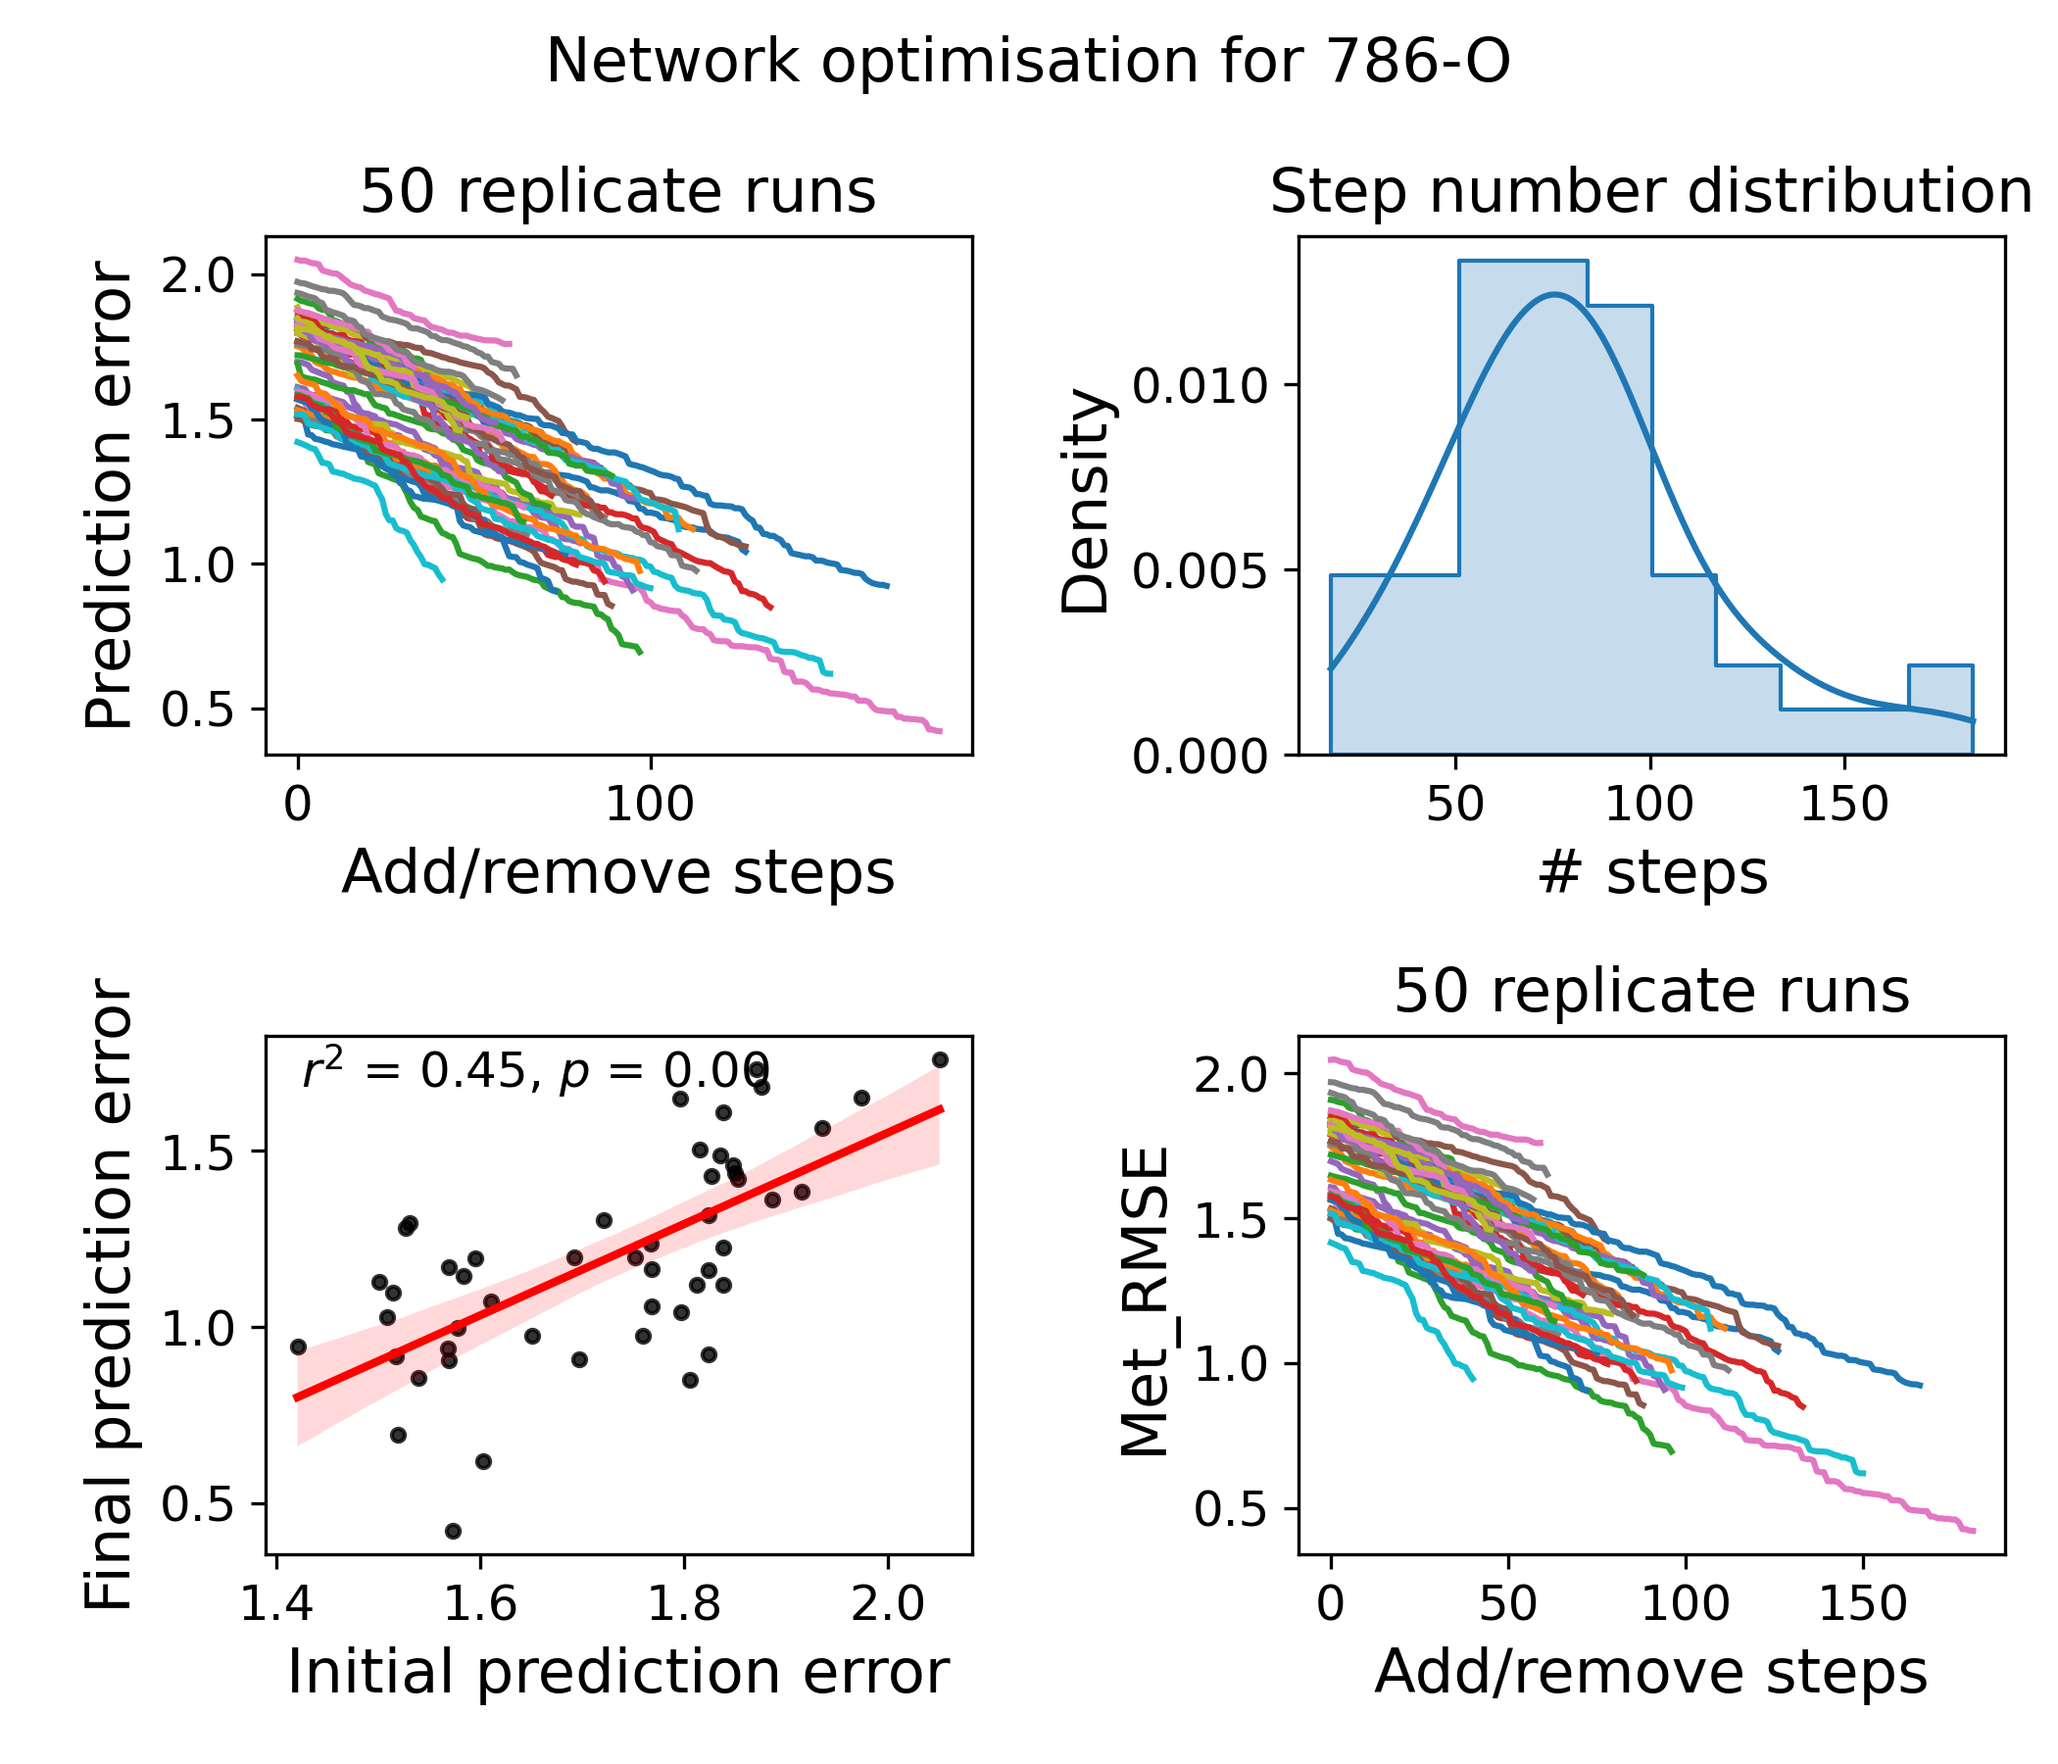
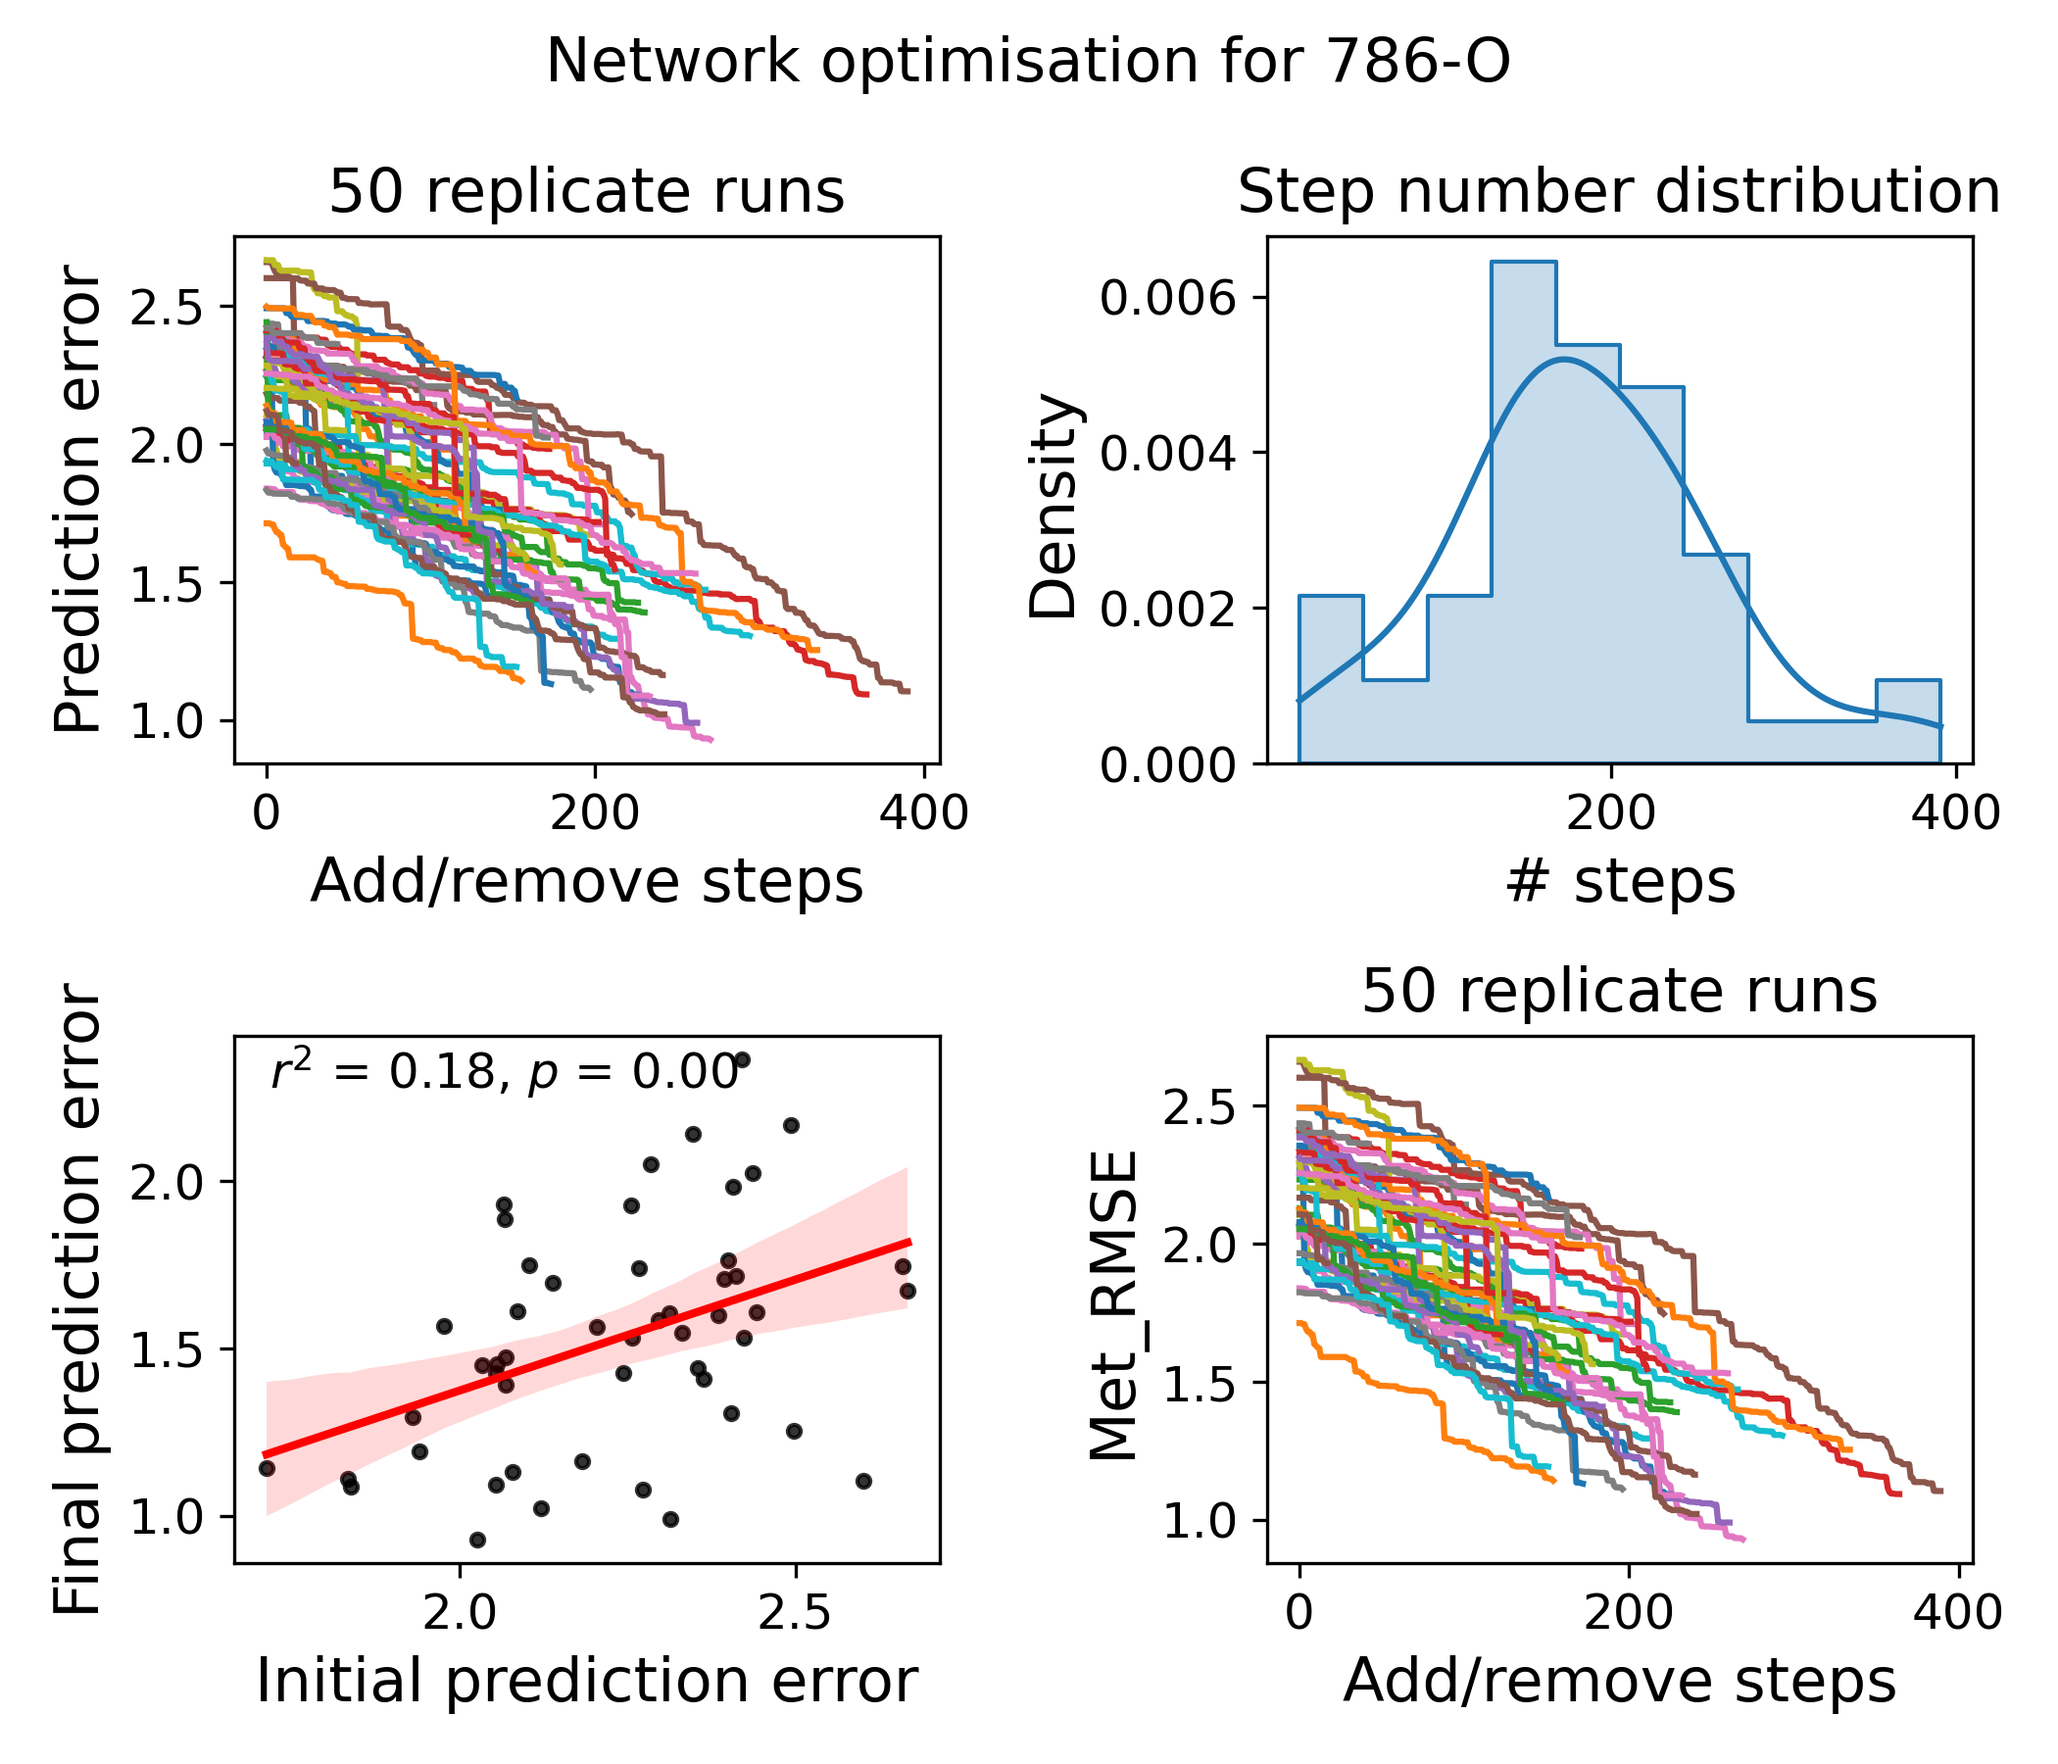
Sims for network features

diff --git a/codes/cancer-all-network-models.py b/codes/cancer-all-network-models.py
@@ -12,15 +12,12 @@ import pandas as pd
 import numpy as np
 import matplotlib.pyplot as plt
 import seaborn as sns
-# from scipy.stats import sem
-# from sklearn.linear_model import LinearRegression
 from scipy.sparse import csr_matrix
-import numpy.matlib
 from scipy.optimize import minimize
 from scipy.stats import pearsonr
 import networkx as nx
-
 import os
+import numpy.matlib
 
 # %%
 ############ Figure size settings
@@ -166,23 +163,6 @@ def calculate_metabolome_from_net(f, ct_hyp, diet, net, in_degree_flag, MAX_ID_m
 
     return [m2b, b2m, metabolome_pred]
 
-def calc_metabolome(diet, m2b, m2m_total, numLevels_max, MAX_ID_metabolites):
-    '''
-    calc_metabolome is a function used to calculate the metabolome from the fitted nutrient intake from the
-    model. It relies on (1) x: the nutrient intake, (2) i_intake: IDs of the nutrient intake, (3) m2m_layer: 
-    a conversion matrix from the nutrient intake to the metabolite byproducts at a trophic level or layer, 
-    and (4) numLevels_max: the number of trophic levels/layers in the model. The metabolome in the model is 
-    assumed to be composed of two parts: (1) met_levels: all metabolites in the final trophic level/layer 
-    (which is considered to be reaching the end of the gut because of the finite gut length and gut motility.),
-    and (2) met_leftover_levels: all unusable metabolites from all previous trophic levels/layers. 
-    '''
-    met_levels = m2m_total.copy()
-    met_leftover_levels = np.where(m2b.sum(1)==0, diet.to_numpy(), 0)
-
-    metabolome_predicted = met_levels + met_leftover_levels
-            
-    return metabolome_predicted
-
 def calc_pred_error(ct_hyp, net, numLevels_max, f, diet, ec_real, in_degree_flag, MAX_ID_metabolites, MAX_ID_celltypes):
     '''
     pred_error is a function used to compute the logarithmic error between experimentally measured
@@ -193,9 +173,9 @@ def calc_pred_error(ct_hyp, net, numLevels_max, f, diet, ec_real, in_degree_flag
     experimentally measured net gain in intracellular metabolome "ic_real".
     '''
 
-    m2b, b2m, m2m_total = Ain_out(f, ct_hyp, diet, net, in_degree_flag, MAX_ID_metabolites, MAX_ID_celltypes)
+    m2b, b2m, ec_pred = calculate_metabolome_from_net(f, ct_hyp, diet, net, in_degree_flag, MAX_ID_metabolites, MAX_ID_celltypes)
     
-    ec_pred = calc_metabolome(diet, m2b, m2m_total, numLevels_max, MAX_ID_metabolites) # Row sum of all secreted metabolites plus unused metabolites
+
     i_nonzero = np.where((ec_pred * ec_real) > 0)[0]
     
     # diff = np.log10(ec_pred[i_nonzero]) - np.log10(ec_real[i_nonzero])
@@ -205,17 +185,17 @@ def calc_pred_error(ct_hyp, net, numLevels_max, f, diet, ec_real, in_degree_flag
     return pred_error
 
 def run_network_model(f, diet, col_name, k, cellnum_init, cellnum_max, net, in_degree_flag, MAX_ID_metabolites, MAX_ID_celltypes):
-    f = f * np.ones((1, MAX_ID_celltypes))
+    # f = f * np.ones((1, MAX_ID_celltypes))
     numLevels_max = 1
 
     ######## Initial cell type frequencies and empirically measured extracellular metabolome for cell line given by col_name
-    ct0 = cellnum_init*celltypefreq.to_numpy()
+    ct0 = cellnum_init*celltypefreq.values
     ec_real = ec_metabolome[col_name].values
  
-    ct_full = np.zeros((MAX_ID_celltypes,)) # Final cell number, either fitted or taken depending on number of cell types
+    ct_full = np.zeros_like(ct0) # np.zeros((MAX_ID_celltypes,)) # Final cell number, either fitted or taken depending on number of cell types
 
     ######## Compute matrices involving the metabolite consumption and generation:
-    m2b, b2m, m2m_total = Ain_out(f, ct0, diet, net, in_degree_flag, MAX_ID_metabolites, MAX_ID_celltypes)
+    m2b, b2m, metabolome_pred_unfilt = calculate_metabolome_from_net(f, ct0, diet, net, in_degree_flag, MAX_ID_metabolites, MAX_ID_celltypes)
     # m2m_total = m2b_multiple_levels(f, m2b, b2m, numLevels_max, MAX_ID_metabolites, MAX_ID_celltypes)
 
     ##### For k > 1, the model is converted into an optimization problem where the celltype frequencies are constantly changed to minimize the logarithmic error between experimentally measured metabolome and predicted metabolome computed from the model for a certain up-sec network and initial cell type distribution.
@@ -231,7 +211,7 @@ def run_network_model(f, diet, col_name, k, cellnum_init, cellnum_max, net, in_d
     else:
         ct_full = cellnum_max
 
-    metabolome_pred_unfilt = calc_metabolome(diet, m2b, m2m_total, numLevels_max, MAX_ID_metabolites)
+    # metabolome_pred_unfilt = calc_metabolome(diet, m2b, m2m_total, numLevels_max, MAX_ID_metabolites)
     metabolome_measured_unfilt = ec_real.copy()
 
     ### Taking out unused metabolites from the analysis
@@ -458,29 +438,6 @@ def pred_error_addingLinks(x, m2b_ori, b2m_ori, net_ori, f, col_name, diet, in_d
     net_added_production = pd.DataFrame({net_ori.columns[0]: a,
                                           net_ori.columns[1]: b,
                                           net_ori.columns[2]: c})
-    # m2b_added = x[:max_links].reshape((m2b_ori.shape[0], m2b_ori.shape[1]))
-    # i_add_consumption = np.where(m2b_added!=0)[0] # Indices of added links
-    # # df_metabolites = pd.DataFrame.from_dict({'oldID': i_nonzero_metabolites, 'newID':list(range(len(i_nonzero_metabolites)))})
-
-    # a = net_ori.iloc[:len(i_nonzero_metabolites), 0].values[i_add_consumption]
-    # b = np.where(m2b_added==1)[1]#np.arange(len(i_nonzero_celltypes))[np.where(m2b_added >= thres)[1]]
-    # c = [2] * len(b)
-    # net_added_consumption = pd.DataFrame({net_ori.columns[0]:list(a), net_ori.columns[1]:list(b), net_ori.columns[2]:c})
-
-    # ### production links:
-    # b2m_added = x[max_links:].reshape((b2m_ori.shape[0], b2m_ori.shape[1]))
-    # i_add_production = np.where(b2m_added!=0)[0]
-    
-    # a = net_ori.iloc[:len(i_nonzero_metabolites), 0].values[i_add_production]
-    # b = np.where(b2m_added==1)[1]#np.arange(len(i_nonzero_celltypes))[np.where(b2m_added >= thres)[1]]
-    # c = [3] * len(b)#np.where(b2m_added >= thres)[1].shape[0]
-    # net_added_production = pd.DataFrame({net_ori.columns[0]:list(a), net_ori.columns[1]:list(b), net_ori.columns[2]:c})
-    # ### new network with added links
-    # # net = pd.concat([net_ori, net_added_consumption, net_added_production])
-
-    # # ### Removing selected edges
-    # # i_remove = np.where(m2b_added==0)[0]
-    # # net_removed = net_ori.drop(net_ori.index[i_remove], inplace=False)
 
     net = pd.concat([net_added_consumption, net_added_production])
     n_changed = len(np.where(net.iloc[:, -1].values != net_ori.iloc[:, -1].values)[0])
@@ -489,7 +446,7 @@ def pred_error_addingLinks(x, m2b_ori, b2m_ori, net_ori, f, col_name, diet, in_d
 
     # ct = ct_full*i_nonzero_celltypes
     ct_full = ct_full.reshape(celltypefreq.shape)
-    m2b_final, b2m_final, m2m_total = Ain_out(f, ct_full, diet, net, in_degree_flag, MAX_ID_metabolites, MAX_ID_celltypes)
+    m2b_final, b2m_final, m2m_total = calculate_metabolome_from_net(f, ct_full, diet, net, in_degree_flag, MAX_ID_metabolites, MAX_ID_celltypes)
 
     i_used_mets = np.where(m2b_final.sum(1)!=0)[0]
     # i_common = np.where(metabolome_measured * metabolome_pred != 0)[0]
@@ -542,7 +499,7 @@ def run_network_optimisation(f, cl, cellnum_init, cellnum_final, net_raw, diet, 
     # Save original network features and prediction errors
     net_ori, i_nonzero_celltypes, i_nonzero_metabolites, MAX_ID_celltypes, MAX_ID_metabolites = get_network(net_raw)
 
-    m2b, b2m, m2m_total = Ain_out(f, ct0, diet, net_ori, in_degree_flag, MAX_ID_metabolites, MAX_ID_celltypes)
+    m2b, b2m, met_pred = calculate_metabolome_from_net(f, ct0, diet, net_ori, in_degree_flag, MAX_ID_metabolites, MAX_ID_celltypes)
     ####### Keep a record of the original network
     m2b_ori = (m2b!=0).astype(int).copy()
     b2m_ori = (b2m!=0).astype(int).copy()
@@ -668,6 +625,15 @@ if in_degree_flag:
 else:
     fig_name = 'no-in-degree'
 
+####### Generate random networks, one for each cell line
+# for i in range(len(all_networks)):
+all_random_networks = []
+for i, net in enumerate(all_networks):
+    bias_metabolome = ec_metabolome.iloc[:, i].values - diet.values
+    rnet = generate_random_network(net, bias_metabolome)
+    all_random_networks.append(rnet)
+
+
 # %%
 ####### Run the model over the initialised parameters with the pickled initial network
 """No network optimisation simulations"""
@@ -704,15 +670,6 @@ for i, f in enumerate(f_arr):
 
 plot_summary_stats(net_state, fig_name, k, f_arr, ec_corr, ct_full, mean_error, slopes, intercepts, figsave_flag, disp_flag)
 
-
-# %%
-####### Generate random networks, one for each cell line
-# for i in range(len(all_networks)):
-all_random_networks = []
-for i, net in enumerate(all_networks):
-    bias_metabolome = ec_metabolome.iloc[:, i].values - diet.values
-    rnet = generate_random_network(net, bias_metabolome)
-    all_random_networks.append(rnet)
 
 
 # %%
